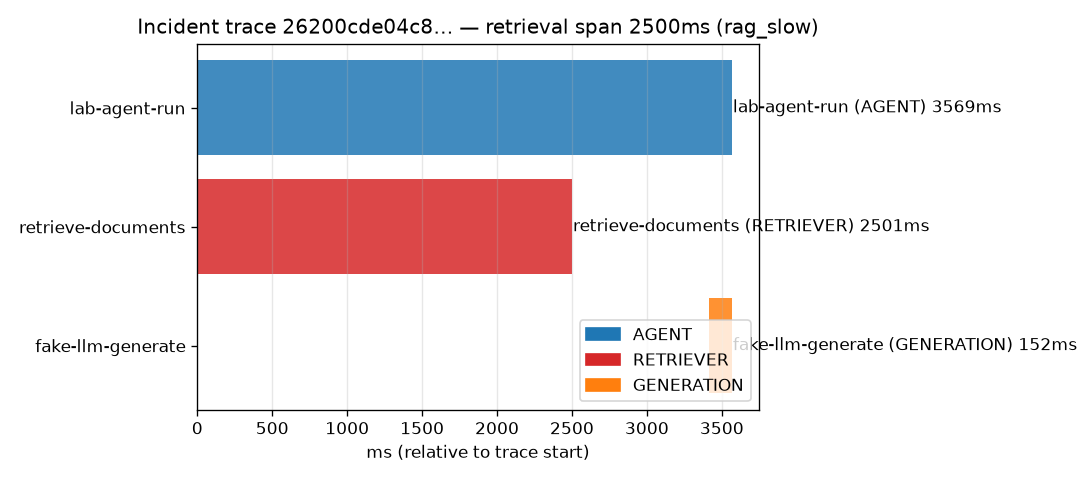
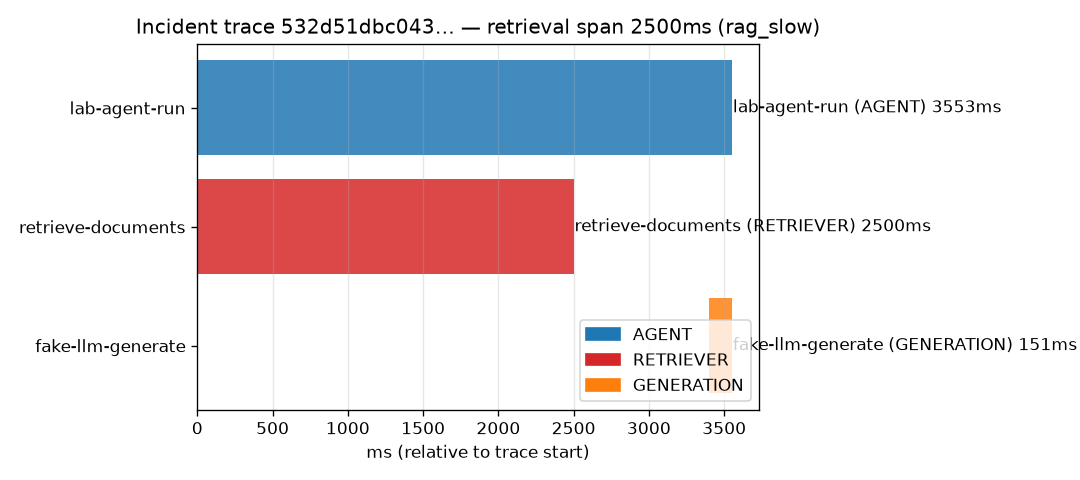
Complete CP3 challenge investigation: rag_slow root cause via metrics, logs, traces

diff --git a/submission/REPORT.md b/submission/REPORT.md
@@ -9,7 +9,7 @@
 - **Lớp:** K4-L3A
 - **Repository URL:** https://github.com/LonelyStar05/K4-L3A-Day13-NguyenTuTai-2A202602455-Monitoring-LLMOps
 - **Commit SHA cuối:** 2132614c9988a9890e7d41e88f8bfe4e85dea496
-- **Challenge ID:** `day13-k4-l3a-monitoring-llmops-v1` (chạy khi Lab Coach release `config/challenge.json`)
+- **Challenge ID:** `day13-k4-l3a-monitoring-llmops-v1`
 - **Tên project Langfuse cá nhân:** `day13-k4-l3a-2A202602455`
 
 ## 2. Evidence index
@@ -42,7 +42,7 @@
 | `pytest` | 22 pass | 24 pass | thêm test CCCD + credit card |
 | Số traces hợp lệ | 0 | 14 | 14 traces tự tạo, đủ 10 theo rubric |
 | Số PII leak | >0 (baseline) | 0 | email/phone/CCCD/thẻ đều bị scrub |
-| Latency P95 / TTFT P95 | ~151ms / 50ms | 3568ms (request chậm) / 50ms khi bật `rag_slow` | incident practice làm tail latency vượt SLO 3000ms |
+| Latency P95 / TTFT P95 | ~151ms / 50ms | 3551ms (challenge `rag_slow`) / 50ms | tail latency vượt ngưỡng challenge 2000ms và SLO 3000ms |
 | Retrieval success rate | 100% | 100% (chưa bật `tool_fail`) | — |
 
 ## 4. Logging và PII
@@ -76,16 +76,14 @@
 
 ## 7. Điều tra challenge
 
-- **Challenge ID:** `day13-k4-l3a-monitoring-llmops-v1` (đây là practice `--scenario rag_slow`; challenge chính thức sẽ dùng `config/challenge.json` do Lab Coach gửi riêng tại CP3).
-- **Khoảng thời gian điều tra:** run lúc 08:06:29–08:06:33 UTC, khi bật incident `rag_slow` (`evidence/12-incident-metric.txt`).
-- **Triệu chứng từ metrics:** Basline latency P95 ~151ms; khi `rag_slow` bật, request latency vọt lên 3568ms (vượt SLO 3000ms), TTFT vẫn 50ms → triệu chứng chậm do xử lý trước khi sinh token, không phải token đầu tiên.
-- **Log line và correlation ID liên quan:** `evidence/13-incident-log.txt` chứa `correlation_id` `req-127a5cca`, `latency_ms: 3568`.
-- **Trace ID và span gây ảnh hưởng:** trace `26200cde04c8a84f0ef579f9439407a1` — span `retrieve-documents` (RETRIEVER) mất 2501ms trong khi `fake-llm-generate` (GENERATION) chỉ 152ms (`evidence/14-incident-trace.png`).
-- **Root cause:** scenario `rag_slow` làm `retrieve()` ngủ 2.5s; span retrieval là thủ phạm, không phải LLM.
-- **Fix action:** tắt `rag_slow`; với sự cố thật sẽ khoanh vùng vector store, thêm timeout/fallback.
-- **Preventive measure:** bám sát tail latency qua SLO `high_tail_latency` (P95 > 3000ms), ăn khớp error budget.
-
-Lưu ý: đây là chuỗi điều tra practice hoàn chỉnh metric → log → trace; chưa chạy challenge chính thức vì `config/challenge.json` chưa được Coach release cho lớp K4-L3A.
+- **Challenge ID:** `day13-k4-l3a-monitoring-llmops-v1` (cohort `K4`, seed `1311`, `affected_feature=monitoring`, `latency_threshold_ms=2000`).
+- **Khoảng thời gian điều tra:** args challenge chạy lúc 09:48:16–09:48:42 UTC, sau khi `inject_incident.py` bật incident từ `config/challenge.json`.
+- **Triệu chứng từ metrics:** `/metrics` sau challenge báo `latency_p50=2652ms`, `latency_p95=3551ms`, `latency_p99=3551ms`, `ttft_p95=50ms`; latency vượt ngưỡng challenge `2000ms` và SLO `3000ms`, trong khi TTFT không đổi → chậm xảy ra trước khi sinh token đầu tiên.
+- **Log line và correlation ID liên quan:** `evidence/13-incident-log.txt` chứa `correlation_id` `req-f3870d1e`, `latency_ms: 3551`.
+- **Trace ID và span gây ảnh hưởng:** trace `532d51dbc043dc4c661d51c2557a0012` — span `retrieve-documents` (RETRIEVER) mất 2500ms trong khi `fake-llm-generate` (GENERATION) chỉ 151ms (`evidence/14-incident-trace.png`).
+- **Root cause:** incident `rag_slow` (từ challenge file) làm `retrieve()` giữ 2.5s → span retrieval là span chậm, không phải LLM.
+- **Fix action:** disable incident (`python scripts/inject_incident.py --disable`), khoanh vùng vector store và thêm timeout/fallback cho bước retrieval.
+- **Preventive measure:** bám sát tail latency qua SLO `high_tail_latency` (P95 > 3000ms) và error budget, map về `data/logs.jsonl` → trace retrieval trước khi kết luận.
 
 ## 8. Giải thích và tự đánh giá
 
@@ -95,7 +93,7 @@ Lưu ý: đây là chuỗi điều tra practice hoàn chỉnh metric → log →
 - **Cách hiểu luồng Metrics → Logs → Traces:** Metrics chỉ ra triệu chứng và khoảng thời gian; Logs cho correlation_id của request bất thường; Traces cho span chậm/lỗi; ba lớp cùng khớp mới chốt root cause.
 - **Vai trò của prompt version, token/cost, SLO hoặc rollback trong vận hành LLM:** Prompt version giúp truy vết thay đổi chính xác và rollback an toàn về version đang hoạt động; token/cost và SLO dùng để giám sát hiệu suất và chi phí theo ngưỡng thực tế.
 - **Điều quan trọng nhất đã học:** Observability ba lớp metrics/logs/traces giúp điều tra đúng nguyên nhân thay vì đoán.
-- **Hạn chế hoặc phần chưa hoàn thành, nếu có:** Challenge chính thức chưa chạy vì chưa có `config/challenge.json` từ Lab Coach; phần incident trong report là practice `rag_slow`. Screenshot UI Langfuse nên do chính học viên chụp trực tiếp để hiển thị tên project; các file evidence tôi đã lưu bằng API/script tương đương.
+- **Hạn chế hoặc phần chưa hoàn thành, nếu có:** Screenshot UI Langfuse nên do chính học viên chụp trực tiếp để hiển thị tên project; các file evidence đã lưu bằng API/script tương đương.
 
 ## 9. Checklist trước khi nộp
 
